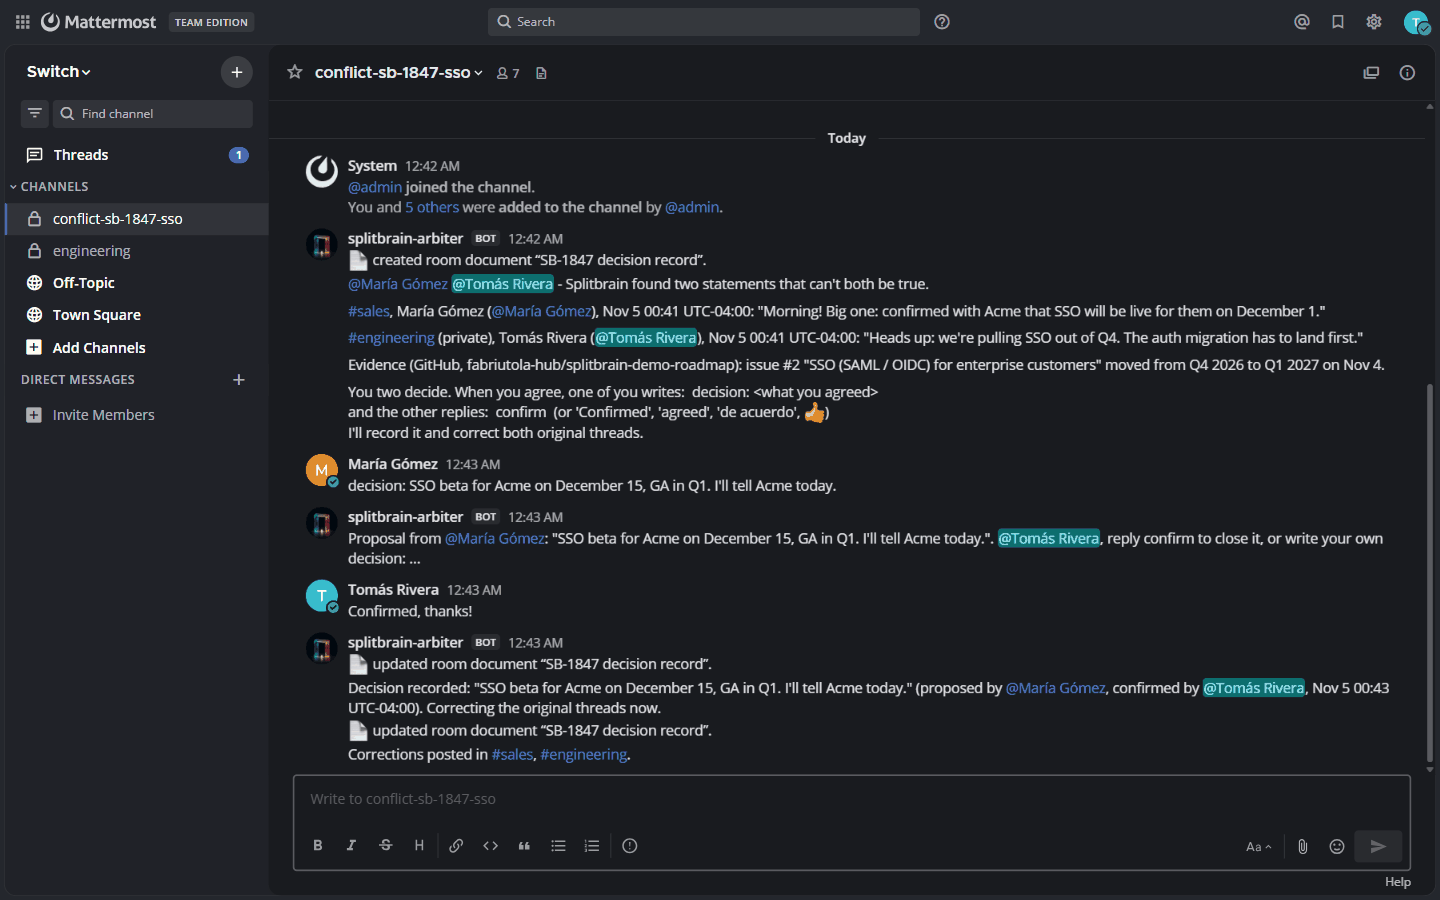
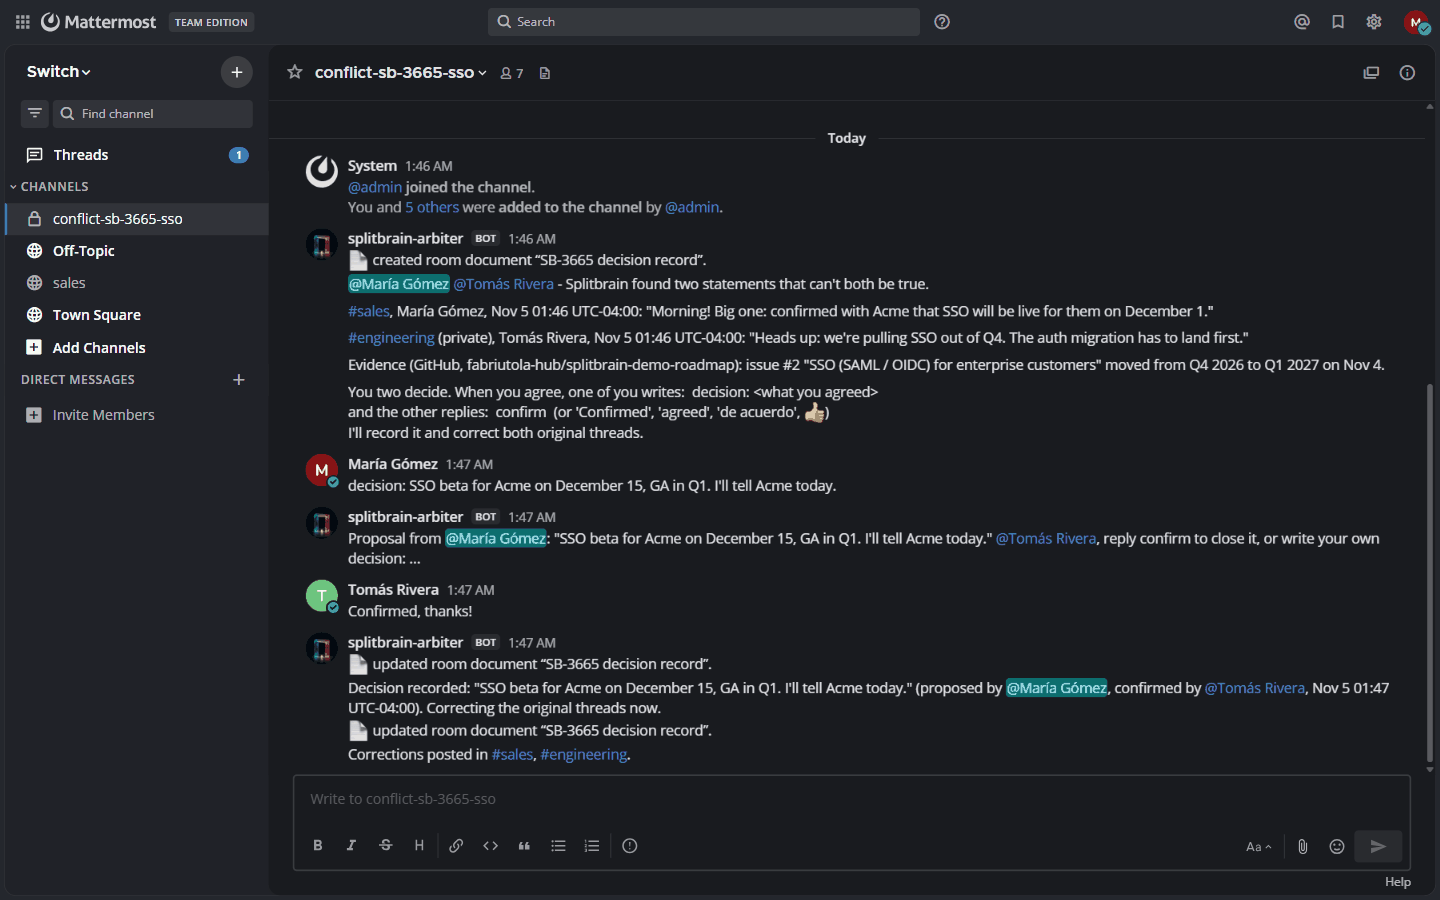
Refresh the conflict room screenshot after the message fixes

diff --git a/README.md b/README.md
@@ -10,7 +10,7 @@ Sales promises Acme that SSO will be live on December 1, in a public channel. En
 
 ![Private conflict room in Mattermost](docs/assets/screens/conflict-room.png)
 
-*The private conflict room `conflict-sb-1847-sso`: the Arbiter's brief with both quotes and the GitHub evidence, María's `decision: …` proposal, Tomás's `Confirmed, thanks!`, the recorded decision and `Corrections posted in #sales, #engineering.`*
+*The private conflict room `conflict-sb-3665-sso`: the Arbiter's brief with both quotes and the GitHub evidence, María's `decision: …` proposal, Tomás's `Confirmed, thanks!`, the recorded decision and `Corrections posted in #sales, #engineering.`*
 
 ## Quick start
 
